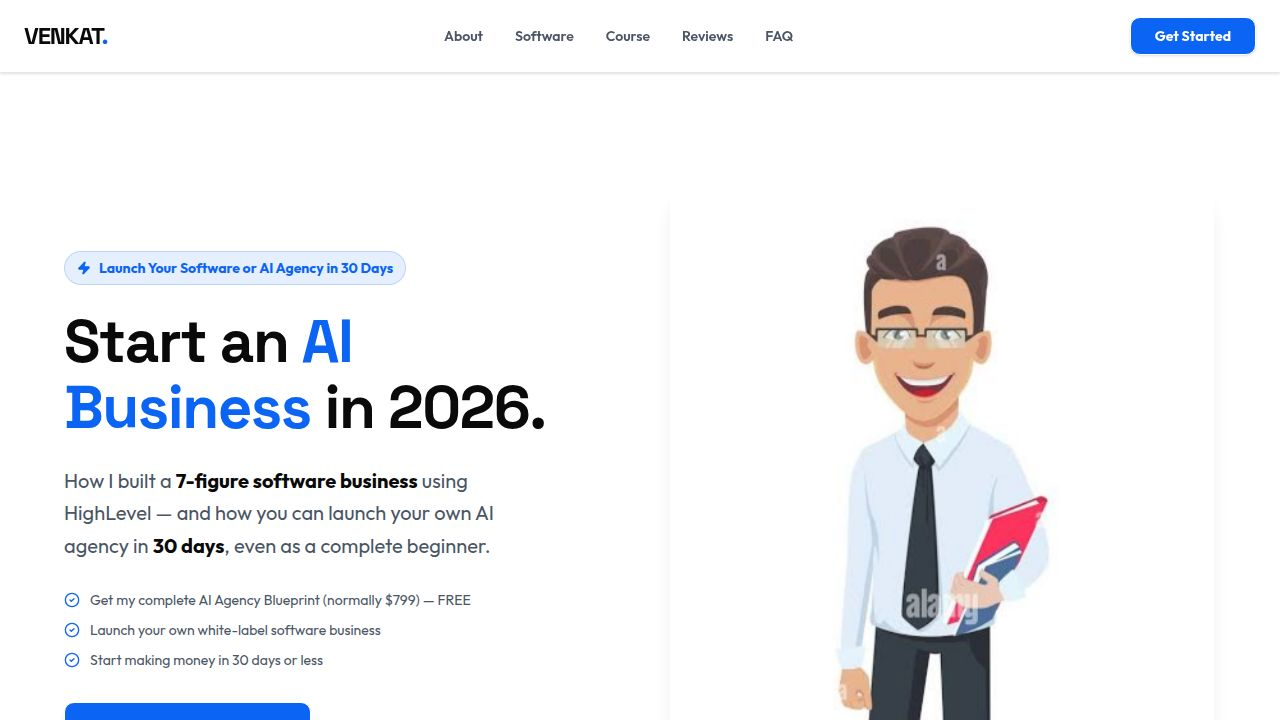
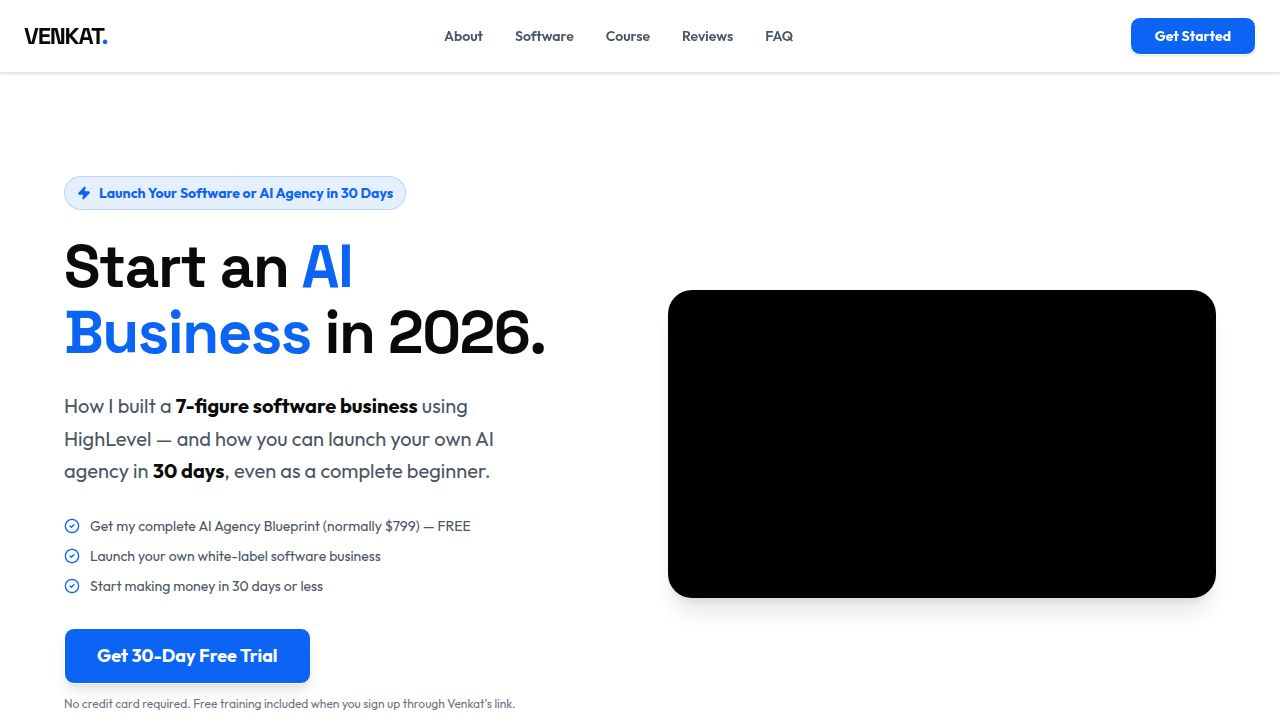
Make all website buttons link to the HighLevel signup page
Adds a constant for the HighLevel link, updates multiple buttons to use this link with target="_blank", and cleans up TypeScript type assertions for animation transitions.

Replit-Commit-Author: Agent
Replit-Commit-Session-Id: c49e5d47-7e6c-4ac7-95b7-0a191007960b
Replit-Commit-Checkpoint-Type: full_checkpoint
Replit-Commit-Event-Id: c084f94a-f38e-4850-bc25-f5b2f49e9cef
Replit-Commit-Screenshot-Url: https://storage.googleapis.com/screenshot-production-us-central1/0ccdedc6-d3ae-4283-a306-baff70b123c7/c49e5d47-7e6c-4ac7-95b7-0a191007960b/BOKjvon
Replit-Helium-Checkpoint-Created: true

diff --git a/artifacts/venkat-site/src/pages/home.tsx b/artifacts/venkat-site/src/pages/home.tsx
@@ -5,6 +5,7 @@ import { Play, Users, Award, Zap, Star, ChevronDown, CheckCircle2, Bot, BarChart
 import { SiYoutube, SiInstagram, SiThreads, SiHubspot, SiMailchimp, SiSalesforce, SiCalendly, SiWix, SiWordpress, SiTypeform, SiZapier, SiTwilio } from "react-icons/si";
 import { Linkedin } from "lucide-react";
 import officeManImg from "@assets/smiling-indian-man-working-laptop_1779188973563.avif";
+
 import saasImg from "@assets/saas_1779185549378.jpg";
 import cloneImg from "@assets/clone_1779185556620.jpg";
 import bootcampImg from "@assets/bootcamp_1779185564292.jpg";
@@ -14,6 +15,8 @@ import sureshImg from "@assets/rahul_1779187996480.jpg";
 import priyaImg from "@assets/pooja_1779188002726.jpg";
 import meenaImg from "@assets/meena_1779188007766.jpg";
 import divyaImg from "@assets/rupa_1779188013426.jpg";
+
+const HL_LINK = "https://www.gohighlevel.com/";
 
 function useCountdown(targetDate: Date) {
   const calc = () => {
@@ -94,15 +97,14 @@ function SocialProofPopup() {
   }, []);
 
   useEffect(() => {
-    if (!visible) {
-      const next = setTimeout(() => {
-        const nextIdx = (current + 1) % socialProofEntries.length;
-        setCurrent(nextIdx);
-        setVisible(true);
-        setTimeout(() => setVisible(false), 4500);
-      }, 6000);
-      return () => clearTimeout(next);
-    }
+    if (visible) return;
+    const next = setTimeout(() => {
+      const nextIdx = (current + 1) % socialProofEntries.length;
+      setCurrent(nextIdx);
+      setVisible(true);
+      setTimeout(() => setVisible(false), 4500);
+    }, 6000);
+    return () => clearTimeout(next);
   }, [visible, current]);
 
   const entry = socialProofEntries[current];
@@ -274,12 +276,12 @@ const fadeUp = {
   initial: { opacity: 0, y: 28 },
   whileInView: { opacity: 1, y: 0 },
   viewport: { once: true },
-  transition: { duration: 0.55, ease: "easeOut" },
+  transition: { duration: 0.55, ease: "easeOut" as const },
 };
 
 const stagger = (i: number) => ({
   ...fadeUp,
-  transition: { duration: 0.5, delay: i * 0.1, ease: "easeOut" },
+  transition: { duration: 0.5, delay: i * 0.1, ease: "easeOut" as const },
 });
 
 function FAQItem({ q, a }: { q: string; a: string }) {
@@ -414,9 +416,11 @@ export default function Home() {
               </a>
             ))}
           </div>
-          <Button className="font-bold bg-primary text-white hover:bg-primary/90 shadow-sm px-6">
-            Get Started
-          </Button>
+          <a href={HL_LINK} target="_blank" rel="noopener noreferrer">
+            <Button className="font-bold bg-primary text-white hover:bg-primary/90 shadow-sm px-6">
+              Get Started
+            </Button>
+          </a>
         </div>
       </nav>
 
@@ -461,9 +465,11 @@ export default function Home() {
             </ul>
 
             <div className="flex flex-col gap-3 pt-2">
-              <Button size="lg" className="h-14 px-8 text-lg font-bold bg-primary text-white hover:bg-primary/90 w-fit shadow-lg">
-                Get 30-Day Free Trial
-              </Button>
+              <a href={HL_LINK} target="_blank" rel="noopener noreferrer" className="w-fit">
+                <Button size="lg" className="h-14 px-8 text-lg font-bold bg-primary text-white hover:bg-primary/90 w-fit shadow-lg">
+                  Get 30-Day Free Trial
+                </Button>
+              </a>
               <p className="text-xs text-gray-500">
                 No credit card required. Free training included when you sign up through Venkat's link.
               </p>
@@ -657,9 +663,11 @@ export default function Home() {
           </div>
 
           <motion.div {...fadeUp} transition={{ duration: 0.5, delay: 0.3 }} className="text-center mt-12">
-            <Button size="lg" className="h-14 px-10 text-lg font-bold bg-primary text-white hover:bg-primary/90 shadow-md">
-              Get 30-Day Free Trial
-            </Button>
+            <a href={HL_LINK} target="_blank" rel="noopener noreferrer">
+              <Button size="lg" className="h-14 px-10 text-lg font-bold bg-primary text-white hover:bg-primary/90 shadow-md">
+                Get 30-Day Free Trial
+              </Button>
+            </a>
             <p className="text-xs text-gray-400 mt-3">Free training included when you sign up through Venkat's link.</p>
           </motion.div>
         </div>
@@ -799,9 +807,11 @@ export default function Home() {
           </motion.div>
 
           <motion.div {...fadeUp} transition={{ duration: 0.5, delay: 0.25 }} className="mt-10 text-center">
-            <Button size="lg" className="h-14 px-10 text-lg font-bold bg-primary text-white hover:bg-primary/90 shadow-md">
-              Try HighLevel Free — 30 Days
-            </Button>
+            <a href={HL_LINK} target="_blank" rel="noopener noreferrer">
+              <Button size="lg" className="h-14 px-10 text-lg font-bold bg-primary text-white hover:bg-primary/90 shadow-md">
+                Try HighLevel Free — 30 Days
+              </Button>
+            </a>
             <p className="text-sm text-gray-400 mt-3">No credit card required. Free training included through Venkat's link.</p>
           </motion.div>
         </div>
@@ -920,9 +930,11 @@ export default function Home() {
               <span className="text-primary">FREE</span>
             </p>
             <p className="text-gray-400 mb-8 text-sm">When you start your 30-day HighLevel trial through Venkat's link</p>
-            <Button size="lg" className="h-14 px-12 text-lg font-black bg-primary text-white hover:bg-primary/90 shadow-lg">
-              Get Started Today!
-            </Button>
+            <a href={HL_LINK} target="_blank" rel="noopener noreferrer">
+              <Button size="lg" className="h-14 px-12 text-lg font-black bg-primary text-white hover:bg-primary/90 shadow-lg">
+                Get Started Today!
+              </Button>
+            </a>
             <p className="text-xs text-gray-400 mt-3">Start Free Trial. No Contracts. Cancel Anytime.</p>
           </motion.div>
         </div>
@@ -1036,9 +1048,11 @@ export default function Home() {
                 <p className="text-xs text-gray-400 text-center">When you start your 30-day HighLevel trial through Venkat's link</p>
               </div>
 
-              <Button size="lg" className="h-14 w-full text-lg font-bold bg-primary text-white hover:bg-primary/90 shadow-lg">
-                Claim Free Access Now →
-              </Button>
+              <a href={HL_LINK} target="_blank" rel="noopener noreferrer" className="w-full">
+                <Button size="lg" className="h-14 w-full text-lg font-bold bg-primary text-white hover:bg-primary/90 shadow-lg">
+                  Claim Free Access Now →
+                </Button>
+              </a>
               <p className="text-xs text-gray-400 text-center -mt-3">No credit card required. Start Free. Cancel Anytime.</p>
 
             </motion.div>
@@ -1065,9 +1079,11 @@ export default function Home() {
               This offer expires in:
             </p>
             <CountdownTimer />
-            <Button size="lg" className="h-16 px-12 text-xl font-bold bg-white text-primary hover:bg-gray-100 shadow-xl w-full md:w-auto">
-              Claim Your Free Training Now
-            </Button>
+            <a href={HL_LINK} target="_blank" rel="noopener noreferrer" className="w-full md:w-auto inline-block">
+              <Button size="lg" className="h-16 px-12 text-xl font-bold bg-white text-primary hover:bg-gray-100 shadow-xl w-full md:w-auto">
+                Claim Your Free Training Now
+              </Button>
+            </a>
             <p className="text-sm text-white/60 mt-6">
               Step-by-step videos. Done-for-you templates. Private community access.
             </p>